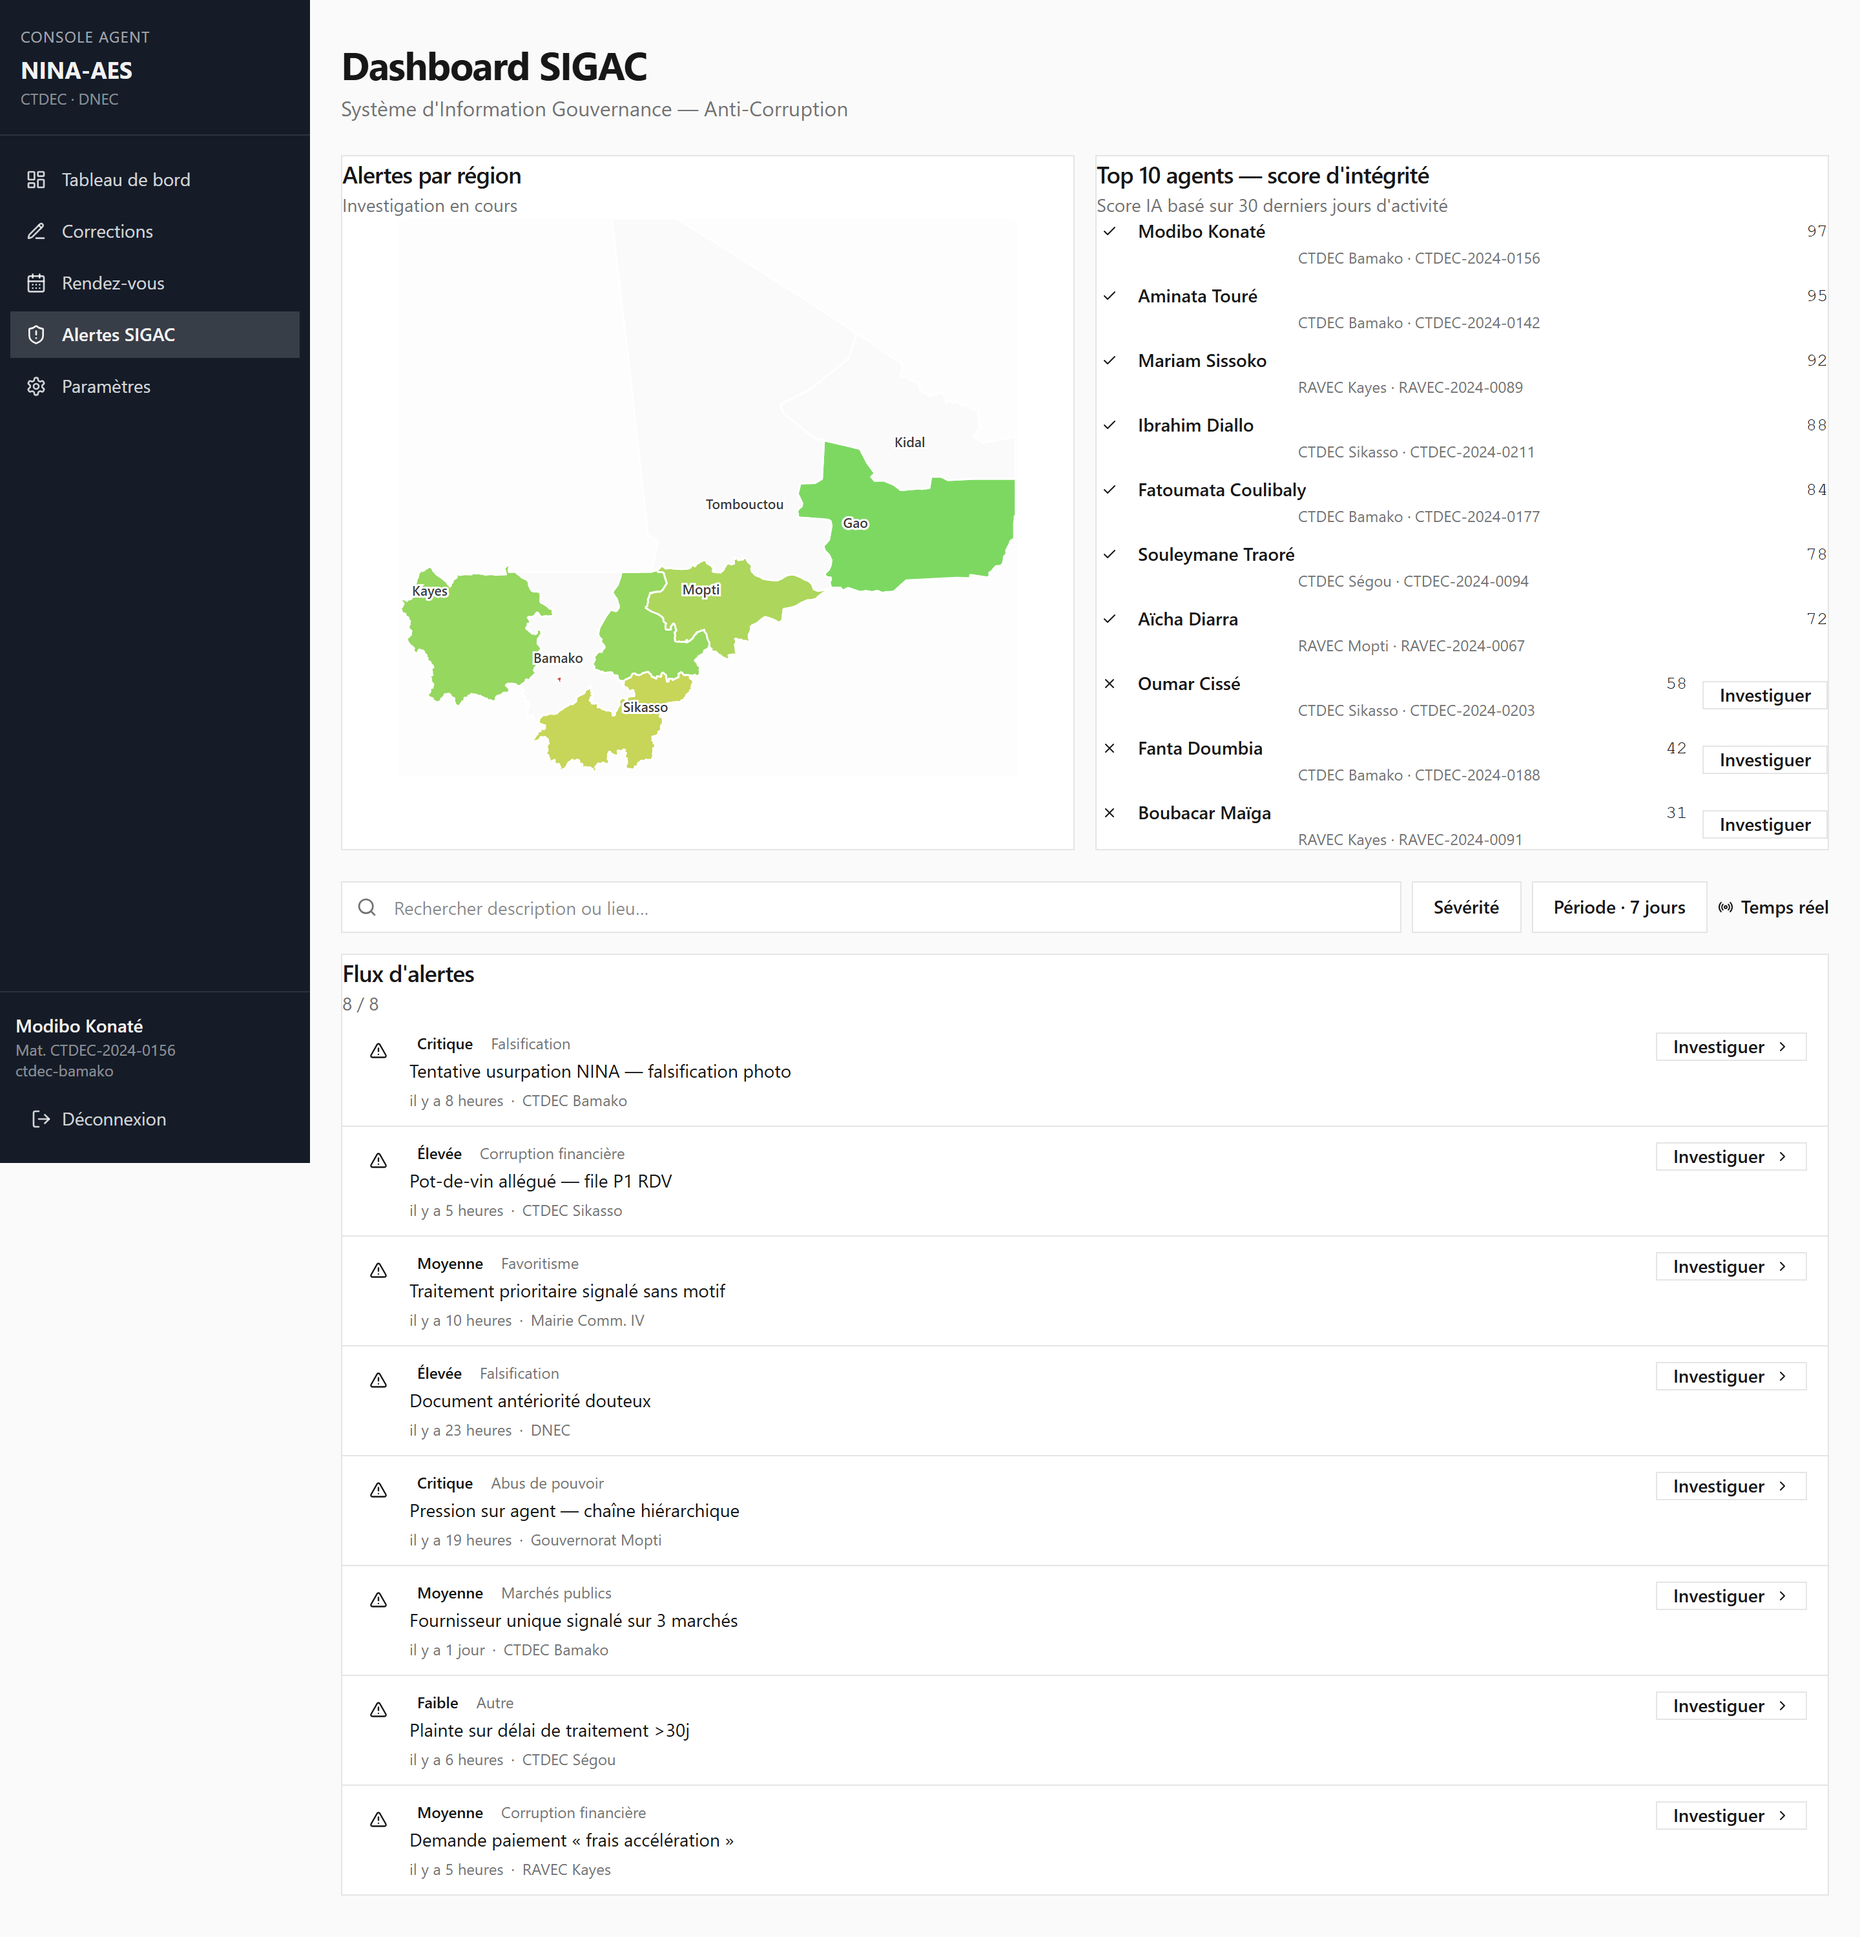
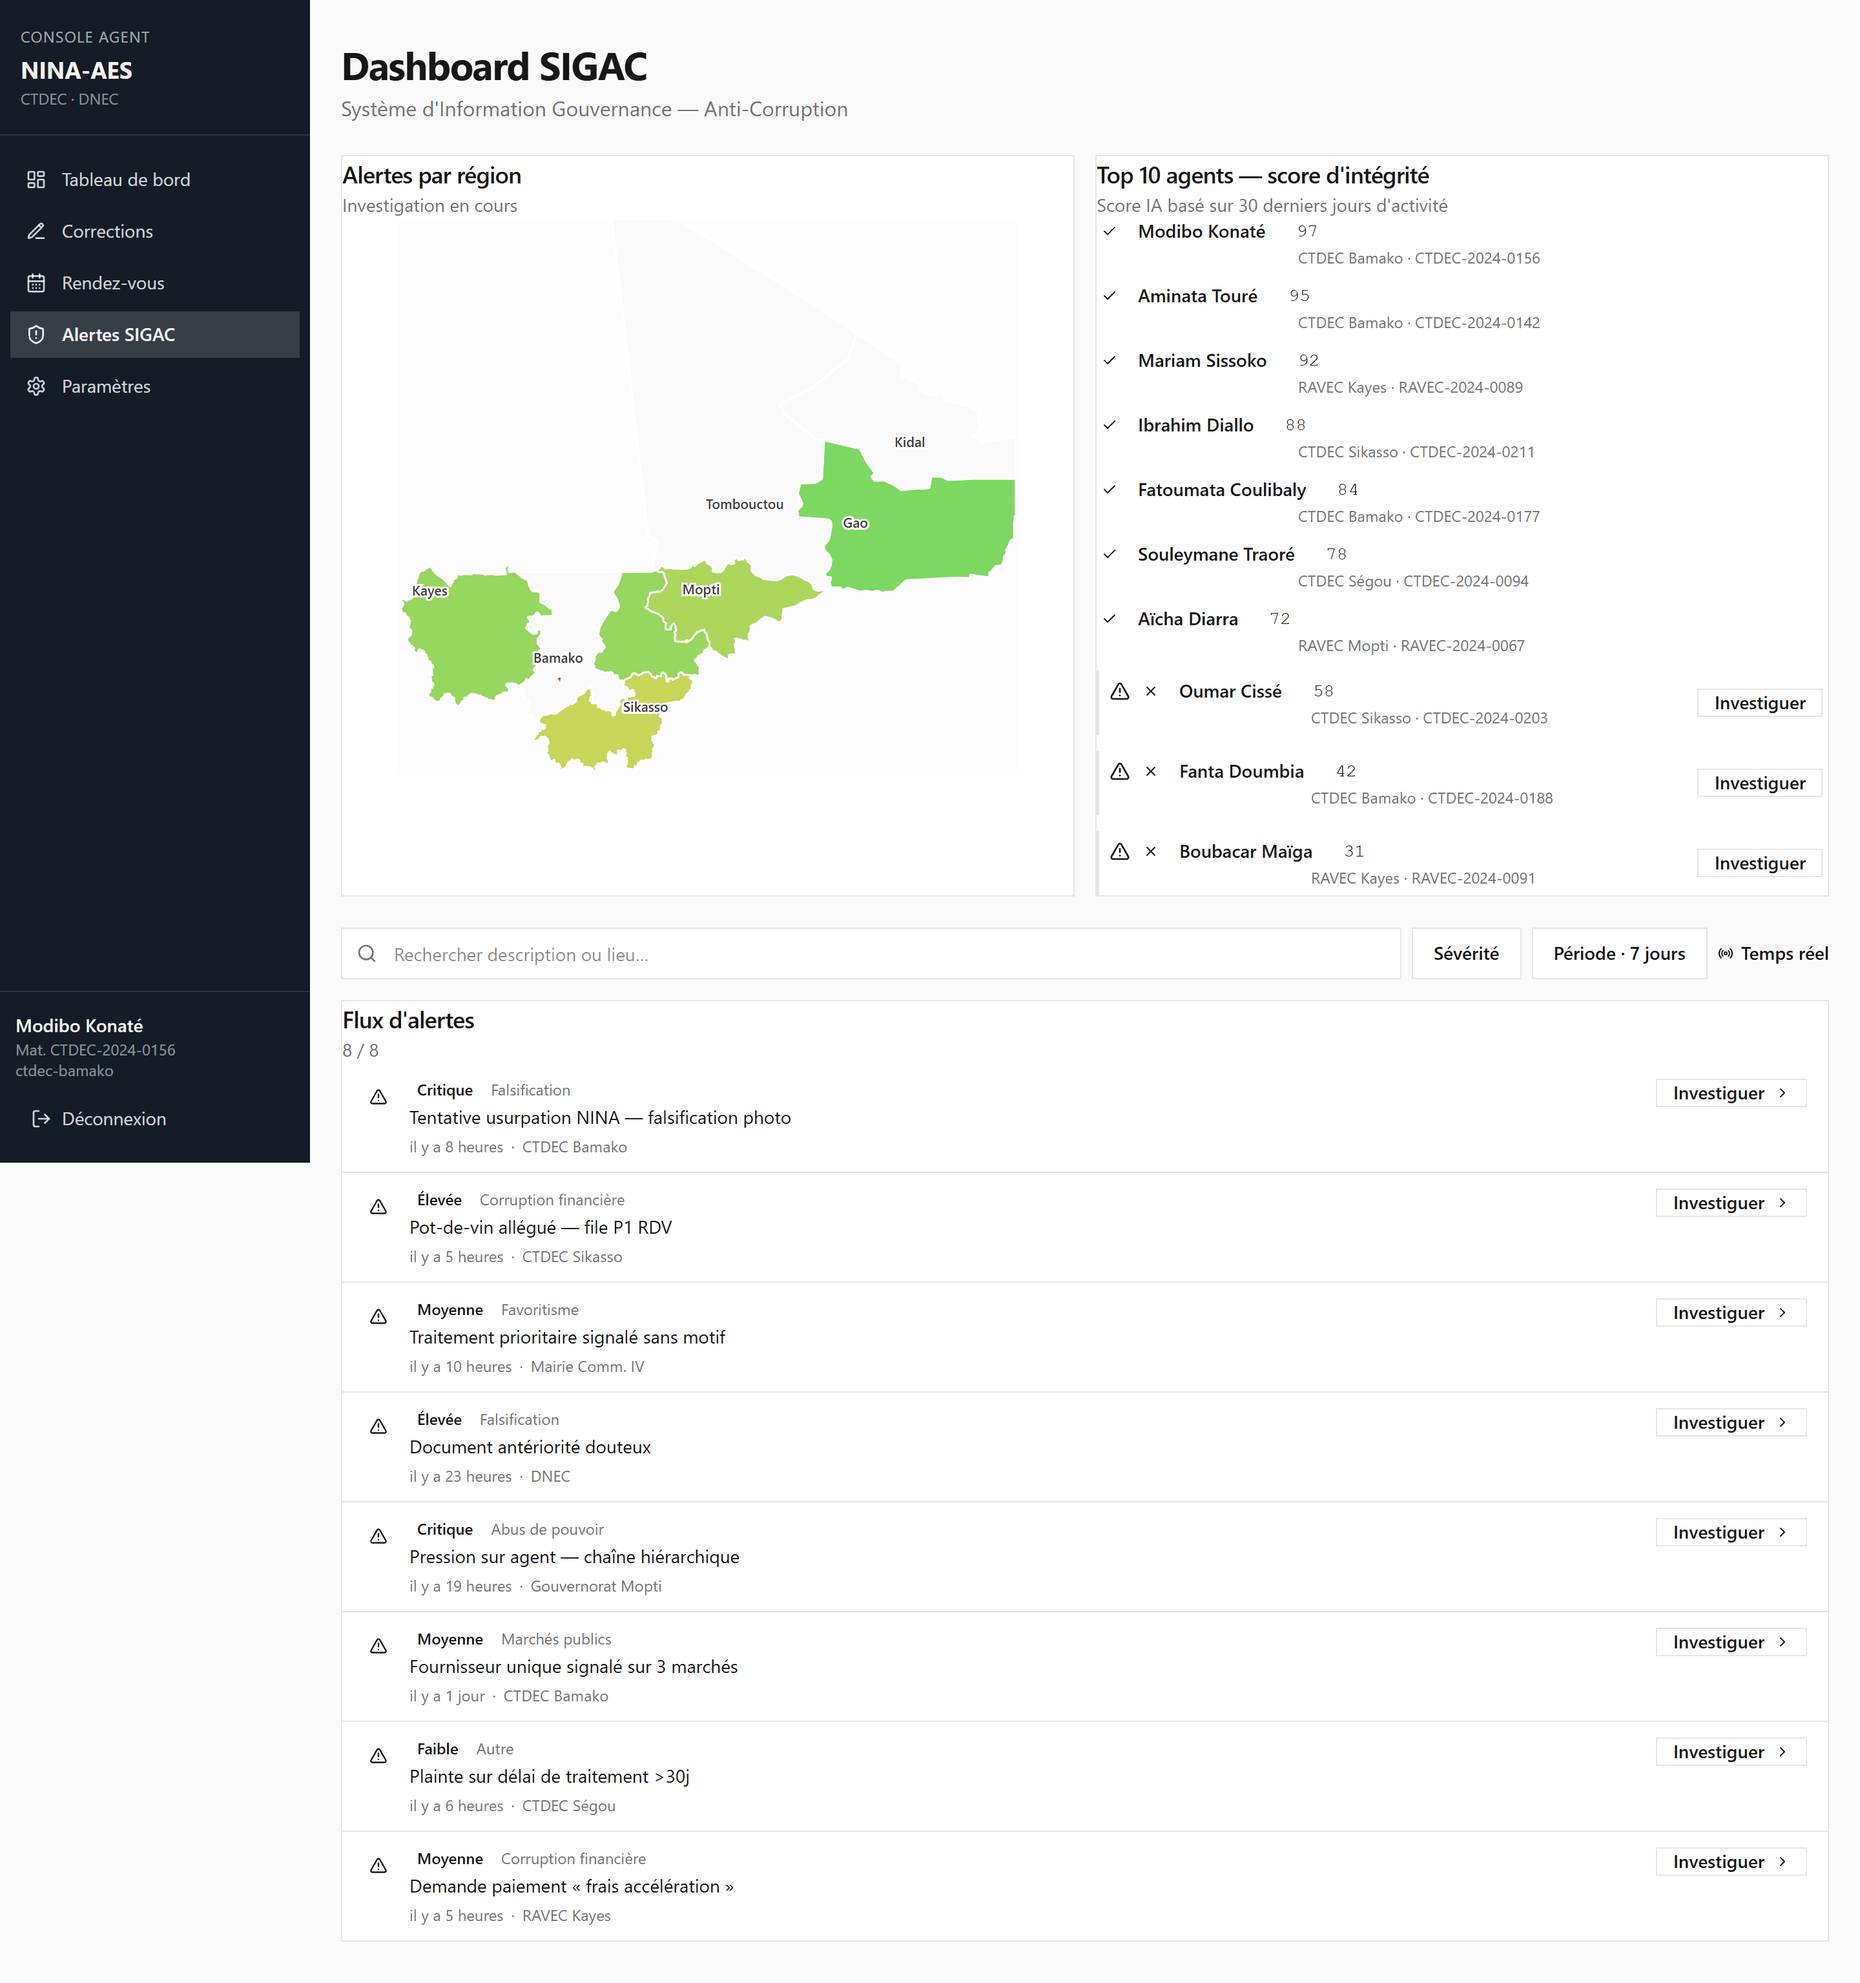
feat(admin): empty-state corrections, agents a risque SIGAC + a11y
Empty-state DataTable (icone + reset) ; surlignage agents score<70.

A11y : focus-rings KPI/alertes, aria-live alertes, aria-invalid rejet,

aria-busy decision. Warning React Compiler TanStack neutralise.

diff --git a/apps/admin/app/[locale]/(authenticated)/sigac/page.tsx b/apps/admin/app/[locale]/(authenticated)/sigac/page.tsx
@@ -23,6 +23,8 @@ import {
 import { MaliHeatmap } from '@nina-aes/ui/components/charts/mali-heatmap';
 import { IntegrityGauge } from '@nina-aes/ui/components/charts/integrity-gauge';
 import { Button } from '@nina-aes/ui/components/button';
+import { cn } from '@nina-aes/ui/lib/utils';
+import { AlertTriangle } from 'lucide-react';
 import maliPolygons from '../../../../../../data/mali/mali-regions-polygons.json';
 import { requireRole } from '../../../../lib/auth/session';
 import { ALERTS_BY_REGION, TOP_AGENTS, INITIAL_ALERTS } from '../../../../lib/mock-dashboard';
@@ -73,23 +75,40 @@ export default async function SigacPage({ params }: PageProps) {
           </CardHeader>
           <CardContent>
             <ul className="space-y-3">
-              {TOP_AGENTS.map((agent) => (
-                <li key={agent.id} className="flex items-center gap-3">
-                  <div className="flex-1">
-                    <IntegrityGauge name={agent.name} score={agent.score} />
-                    <p className="ml-[156px] mt-0.5 text-xs text-fg-muted">
-                      {agent.centerCode} · {agent.matricule}
-                    </p>
-                  </div>
-                  {agent.score < 70 && (
-                    <Button asChild variant="outline" size="sm">
-                      <a href={`/${locale}/sigac/agent/${agent.id}`}>
-                        {t('topAgents.investigate')}
-                      </a>
-                    </Button>
-                  )}
-                </li>
-              ))}
+              {TOP_AGENTS.map((agent) => {
+                const atRisk = agent.score < 70;
+                return (
+                  <li
+                    key={agent.id}
+                    className={cn(
+                      'flex items-center gap-3 rounded-base',
+                      atRisk && 'border-l-2 border-danger bg-danger-50/50 py-1.5 pl-2 pr-1',
+                    )}
+                  >
+                    <div className="flex-1">
+                      <div className="flex items-center gap-1.5">
+                        {atRisk && (
+                          <AlertTriangle
+                            className="size-4 shrink-0 text-danger"
+                            aria-label={t('topAgents.atRisk')}
+                          />
+                        )}
+                        <IntegrityGauge name={agent.name} score={agent.score} />
+                      </div>
+                      <p className="ml-[156px] mt-0.5 text-xs text-fg-muted">
+                        {agent.centerCode} · {agent.matricule}
+                      </p>
+                    </div>
+                    {atRisk && (
+                      <Button asChild variant="outline" size="sm">
+                        <a href={`/${locale}/sigac/agent/${agent.id}`}>
+                          {t('topAgents.investigate')}
+                        </a>
+                      </Button>
+                    )}
+                  </li>
+                );
+              })}
             </ul>
           </CardContent>
         </Card>

diff --git a/apps/admin/app/[locale]/(authenticated)/corrections/_components/correction-drawer.tsx b/apps/admin/app/[locale]/(authenticated)/corrections/_components/correction-drawer.tsx
@@ -74,6 +74,8 @@ export function CorrectionDrawer({ correction, open, onOpenChange, onDecision }:
   };
 
   const decided = correction.status === 'APPROVED' || correction.status === 'REJECTED';
+  // Le motif est invalide seulement après saisie (évite une erreur au champ vide initial).
+  const reasonTooShort = rejectReason.length > 0 && rejectReason.trim().length < 5;
 
   return (
     <Sheet open={open} onOpenChange={closeWithReset}>
@@ -164,7 +166,11 @@ export function CorrectionDrawer({ correction, open, onOpenChange, onDecision }:
             className={cn('sticky bottom-0 bg-bg-card', rejectMode && 'flex-col items-stretch')}
           >
             {rejectMode ? (
-              <form onSubmit={handleRejectSubmit} className="w-full space-y-3">
+              <form
+                onSubmit={handleRejectSubmit}
+                className="w-full space-y-3"
+                aria-busy={isPending}
+              >
                 <div>
                   <Label htmlFor="reject-reason">{t('drawer.rejectReason')}</Label>
                   <textarea
@@ -175,8 +181,23 @@ export function CorrectionDrawer({ correction, open, onOpenChange, onDecision }:
                     rows={3}
                     minLength={5}
                     required
-                    className="mt-1 flex w-full rounded-base border border-border bg-bg-card px-3 py-2 text-sm focus-visible:outline-none focus-visible:ring-2 focus-visible:ring-ring"
+                    disabled={isPending}
+                    aria-invalid={reasonTooShort}
+                    aria-describedby={reasonTooShort ? 'reject-reason-error' : undefined}
+                    className={cn(
+                      'mt-1 flex w-full rounded-base border bg-bg-card px-3 py-2 text-sm focus-visible:outline-none focus-visible:ring-2 focus-visible:ring-ring disabled:opacity-60',
+                      reasonTooShort ? 'border-danger' : 'border-border',
+                    )}
                   />
+                  {reasonTooShort && (
+                    <p
+                      id="reject-reason-error"
+                      role="alert"
+                      className="mt-1 text-xs text-danger-700"
+                    >
+                      {t('drawer.rejectReasonError')}
+                    </p>
+                  )}
                 </div>
                 <div className="flex gap-2 sm:justify-end">
                   <Button

diff --git a/apps/admin/app/[locale]/(authenticated)/corrections/_components/corrections-client.tsx b/apps/admin/app/[locale]/(authenticated)/corrections/_components/corrections-client.tsx
@@ -49,6 +49,7 @@ import {
   ChevronRight,
   MoreHorizontal,
   Search,
+  SearchX,
   X,
 } from 'lucide-react';
 import { cn } from '@nina-aes/ui/lib/utils';
@@ -228,6 +229,10 @@ export function CorrectionsClient({ initialData }: { initialData: AdminCorrectio
   );
 
   // ── Table TanStack
+  // TanStack Table renvoie des fonctions non-mémoïsables : le React Compiler
+  // saute volontairement la mémoïsation de ce composant (comportement attendu,
+  // sans impact UI ici car l'état est piloté par useState/useTransition).
+  // eslint-disable-next-line react-hooks/incompatible-library
   const table = useReactTable({
     data,
     columns,
@@ -448,11 +453,28 @@ export function CorrectionsClient({ initialData }: { initialData: AdminCorrectio
             <tbody>
               {table.getRowModel().rows.length === 0 ? (
                 <tr>
-                  <td
-                    colSpan={columns.length}
-                    className="px-3 py-10 text-center text-sm text-fg-muted"
-                  >
-                    {t('empty')}
+                  <td colSpan={columns.length} className="px-3 py-12">
+                    <div className="flex flex-col items-center gap-2 text-center">
+                      <span className="flex size-12 items-center justify-center rounded-full bg-bg-muted text-fg-muted">
+                        <SearchX className="size-6" aria-hidden="true" />
+                      </span>
+                      <p className="text-sm font-medium text-fg">{t('emptyTitle')}</p>
+                      <p className="max-w-sm text-sm text-fg-muted">{t('emptyHint')}</p>
+                      {activeFilterCount > 0 && (
+                        <Button
+                          variant="outline"
+                          size="sm"
+                          className="mt-1"
+                          onClick={() => {
+                            setColumnFilters([]);
+                            setGlobalFilter('');
+                          }}
+                        >
+                          <X className="size-4" aria-hidden="true" />
+                          {t('filters.reset')}
+                        </Button>
+                      )}
+                    </div>
                   </td>
                 </tr>
               ) : (

diff --git a/apps/admin/app/[locale]/(authenticated)/dashboard/_components/alerts-feed.tsx b/apps/admin/app/[locale]/(authenticated)/dashboard/_components/alerts-feed.tsx
@@ -59,6 +59,9 @@ export function AlertsFeed({
   const [alerts, setAlerts] = useState<readonly AlertEntry[]>(initialAlerts);
   const counterRef = useRef(initialAlerts.length);
   const [pulse, setPulse] = useState(false);
+  // Dernière alerte reçue — sert à l'annonce vocale (région aria-live).
+  // On stocke l'objet brut et on traduit au rendu (hooks indisponibles en effet).
+  const [announced, setAnnounced] = useState<AlertEntry | null>(null);
 
   useEffect(() => {
     // Jitter 12-20 s pour simuler un flux non régulier
@@ -68,6 +71,7 @@ export function AlertsFeed({
         counterRef.current += 1;
         const next = generateNewAlert(counterRef.current);
         setAlerts((prev) => [next, ...prev].slice(0, maxItems));
+        setAnnounced(next);
         setPulse(true);
         window.setTimeout(() => setPulse(false), 800);
         handle.current = schedule();
@@ -105,7 +109,7 @@ export function AlertsFeed({
               <li key={a.id}>
                 <a
                   href={`/${locale}/sigac?alert=${a.id}`}
-                  className="flex items-start gap-3 px-4 py-3 transition-colors hover:bg-bg-muted/40 focus:bg-bg-muted/40 focus:outline-none"
+                  className="flex items-start gap-3 px-4 py-3 transition-colors hover:bg-bg-muted/40 focus-visible:bg-bg-muted/40 focus-visible:outline-none focus-visible:ring-2 focus-visible:ring-inset focus-visible:ring-ring"
                 >
                   <span
                     className={cn(
@@ -141,6 +145,12 @@ export function AlertsFeed({
           </ul>
         )}
       </CardContent>
+      {/* Annonce vocale des nouvelles alertes (lecteurs d'écran uniquement). */}
+      <p className="sr-only" role="status" aria-live="polite">
+        {announced
+          ? `${t('alertsFeedNew')} ${tSeverity(announced.severity)} : ${announced.shortDescription}`
+          : ''}
+      </p>
     </Card>
   );
 }

diff --git a/apps/admin/app/[locale]/(authenticated)/dashboard/_components/kpi-card.tsx b/apps/admin/app/[locale]/(authenticated)/dashboard/_components/kpi-card.tsx
@@ -21,7 +21,7 @@ export function KpiCard({ snapshot, locale }: { snapshot: KpiSnapshot; locale: s
   const isGood = positiveIsGood ? isUp : !isUp;
 
   const inner = (
-    <Card className="h-full transition-shadow hover:shadow-md focus-visible:ring-2 focus-visible:ring-ring">
+    <Card className="h-full transition-shadow hover:shadow-md">
       <CardContent className="p-4">
         <p className="text-xs font-medium uppercase tracking-wide text-fg-muted">
           {t(snapshot.key)}
@@ -57,7 +57,7 @@ export function KpiCard({ snapshot, locale }: { snapshot: KpiSnapshot; locale: s
     return (
       <Link
         href={`/${locale}/${snapshot.drillTo}`}
-        className="block focus:outline-none"
+        className="block rounded-lg focus:outline-none focus-visible:ring-2 focus-visible:ring-ring focus-visible:ring-offset-2"
         aria-label={`${t(snapshot.key)} — drill down`}
       >
         {inner}
